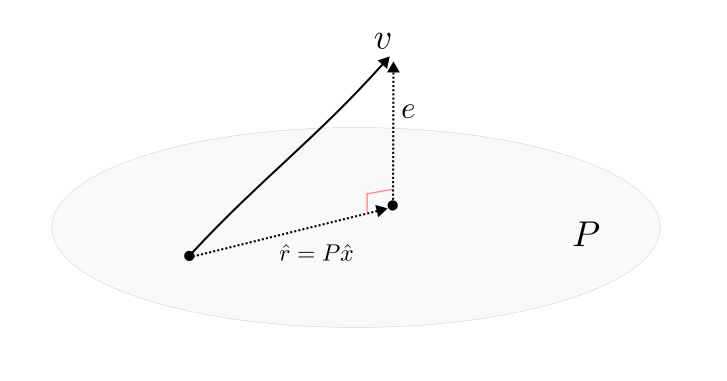
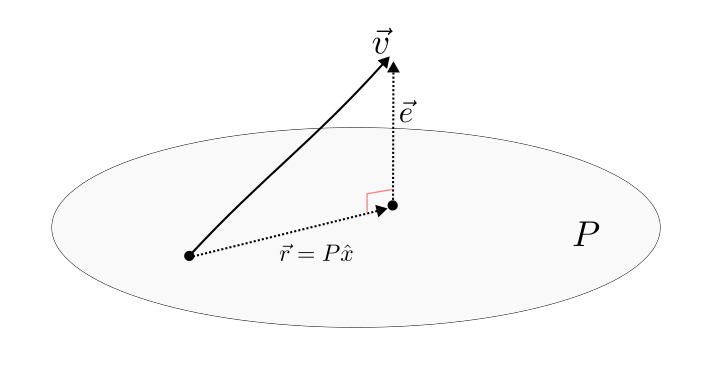
update: describe perpendicular

diff --git a/docs/pca.md b/docs/pca.md
@@ -59,11 +59,14 @@ r_j = \bar{r}_j - P_j (P_j^T \bar{r}_j)
 
 Subsequently, Gram-Schmidt orthogonalization is performed on $\bar{r}_j$ as shown in Equation [](#lanczos-orthogon) (where $P_j = [p_1, p_2, \dots, p_j]$), extracting a perpendicular residual vector $r_j$ that is strictly independent from all previously computed feature residual vectors ($P_j$).
 
-:::{tip} Why does $PP^Tv$ represent residual of $v$ on $P$-space? 
+:::{tip} Why does $PP^Tv$ represent residual of $v$ on the $P$-space? 
 
 ![](./static/perpendicular.png)
 
+Consider an arbitrary vector $v$ and a linear vector dimension $P$, $v$ always includes 2 components: the residual $r$ on $P$, which is constructed from vectors in the $P$-space with coefficients $\hat{x}$; and the perpendicular component $e$.
+
 ```{math}
+:label: penper-coeff
 \begin{aligned}
 
 P^{T}e &= 0 \\
@@ -73,16 +76,21 @@ P^{T}P\hat{x} &= P^{T}v \\
 \end{aligned}
 ```
 
+Hence $e$ is orthogonal (vertical) against $P$, the product of $e$ and foundational vectors of $P$ is 0. Based on that, the relationship between coefficents $\hat{x}$ and vector $v$ is described as Equation [](#penper-coeff), which is well known as the [Normal Equation](https://www.geeksforgeeks.org/machine-learning/ml-normal-equation-in-linear-regression/).    
+
 ```{math}
+:label: penper-residual
 \begin{cases}
 \begin{aligned}
 
 \hat{x} &= P^{T}v \\
-\hat{r} &= PP^{T}v
+r &= PP^{T}v
 
 \end{aligned}
 \end{cases}
 ```
+
+Due to the presumption that $P$ is orthogonal, $P^{T}P = I$. Therefore, the coefficients $\hat{x}$ and residual $r$ on the $P$ dimension of vector $v$ are shown as Equation [](#penper-residual).
 
 :::
 
